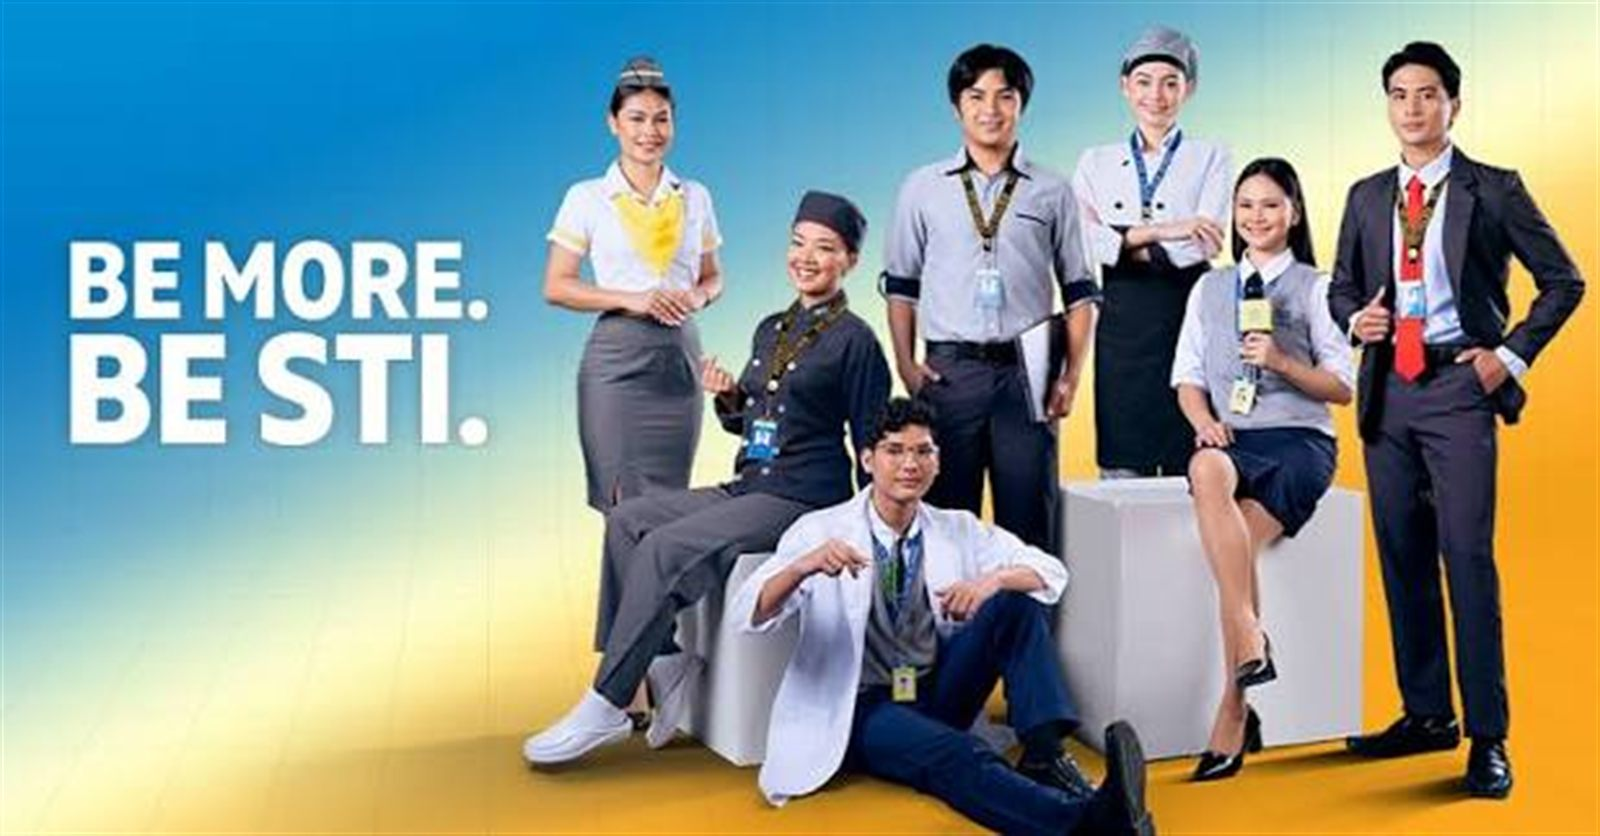
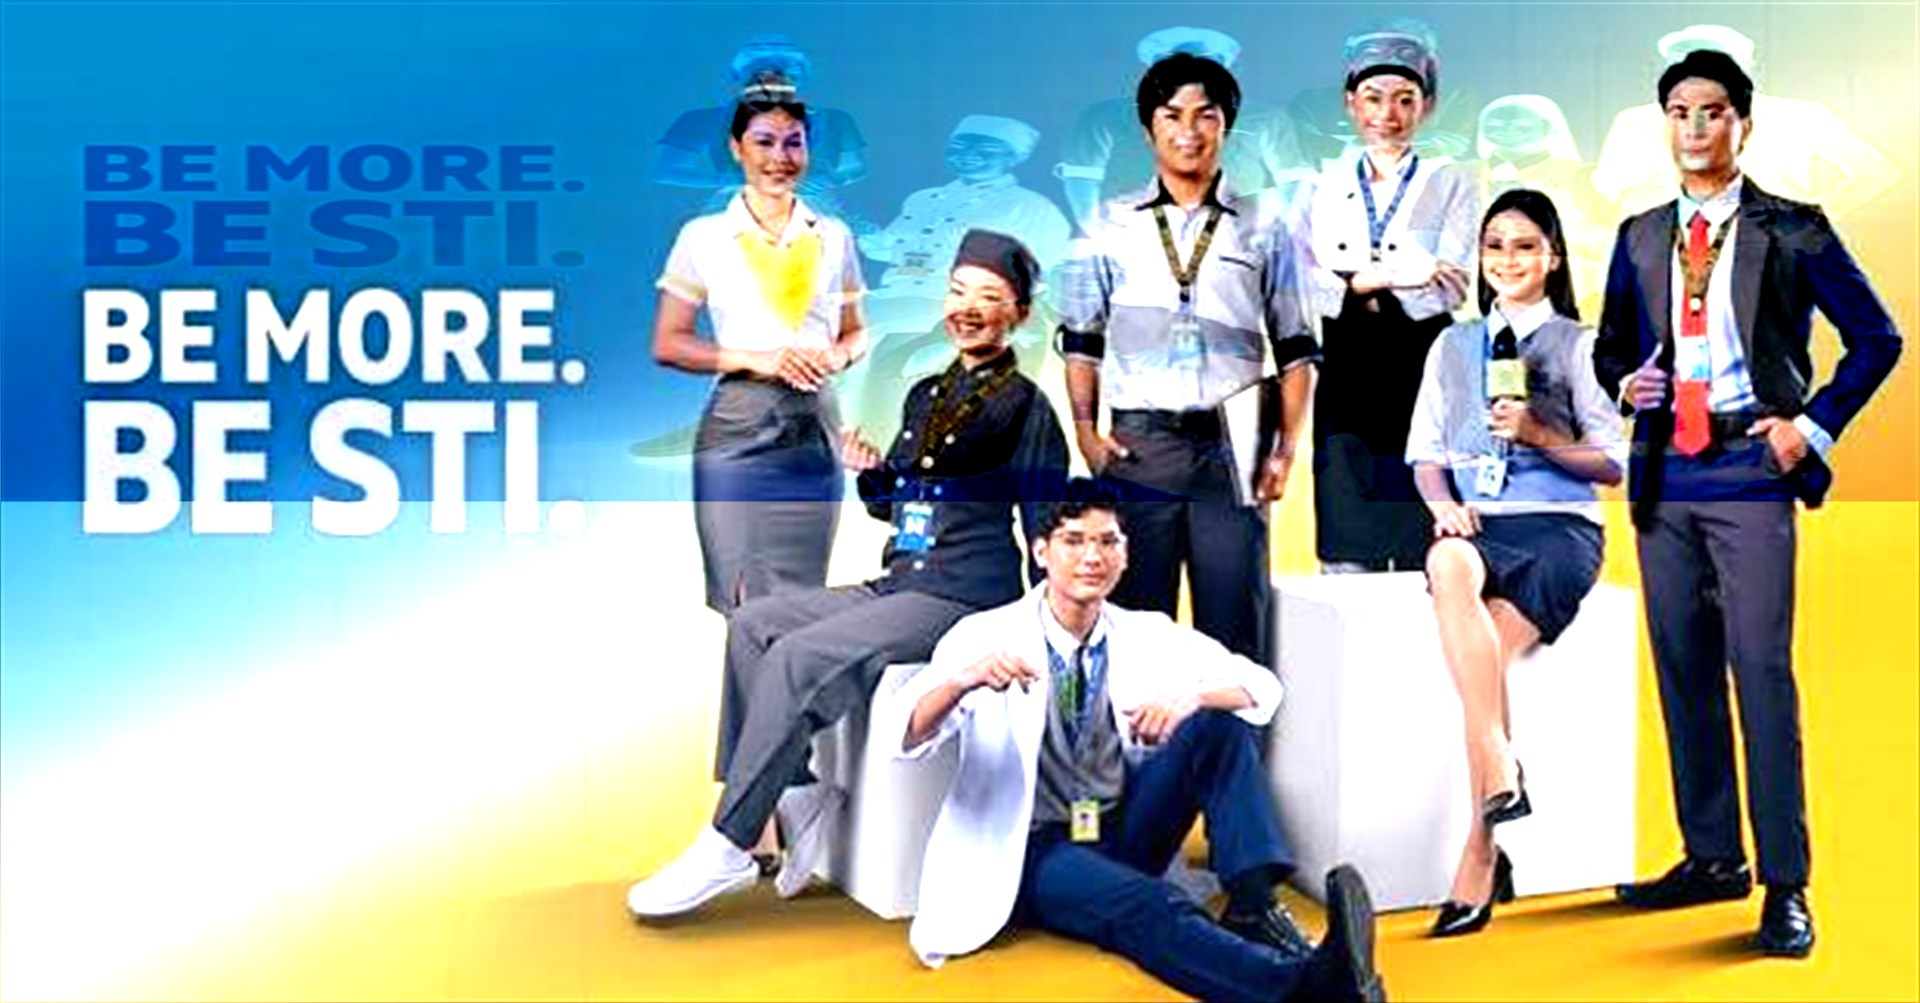
Full-screen hero, header branding, and fixed modal close button

diff --git a/frontend/src/pages/Login.jsx b/frontend/src/pages/Login.jsx
@@ -295,10 +295,17 @@ const ForgotPasswordModal = ({ onClose }) => {
 
   return (
     <div className="fixed inset-0 bg-black/50 backdrop-blur-sm flex items-center justify-center p-4 z-[60]">
-      <div className="bg-white dark:bg-slate-800 rounded-2xl shadow-cardHover w-full max-w-sm p-6 relative">
-        <button onClick={onClose} className="absolute top-4 right-4 text-sti-gray" aria-label="Close">
-          <X className="w-5 h-5" />
-        </button>
+      <div className="bg-white dark:bg-slate-800 rounded-2xl shadow-cardHover w-full max-w-sm max-h-[90vh] flex flex-col overflow-hidden">
+        <div className="flex items-center justify-end px-4 pt-4 shrink-0">
+          <button
+            onClick={onClose}
+            className="p-2 -mr-1 rounded-lg text-sti-gray hover:bg-black/5 dark:hover:bg-white/10 transition-colors"
+            aria-label="Close"
+          >
+            <X className="w-5 h-5" />
+          </button>
+        </div>
+        <div className="px-6 pb-6 overflow-y-auto">
         {stage === 'request' && (
           <>
             <h2 className="text-lg font-bold mb-1 dark:text-white">Reset your password</h2>
@@ -361,6 +368,7 @@ const ForgotPasswordModal = ({ onClose }) => {
             </Button>
           </div>
         )}
+        </div>
       </div>
     </div>
   );
@@ -409,10 +417,13 @@ const Login = () => {
       <header className="sticky top-0 z-40 bg-white/95 dark:bg-slate-950/95 backdrop-blur border-b border-black/5 dark:border-white/10 px-4 sm:px-6 lg:px-8">
         <div className="max-w-7xl mx-auto flex items-center justify-between py-3 gap-4">
           <div className="flex items-center gap-2.5 sm:gap-3 min-w-0">
-            <img src="/sti-logo.png" alt="STI College Sta. Maria" className="h-9 sm:h-10 w-auto shrink-0" />
-            <span className="font-semibold text-sti-blue dark:text-white text-xs sm:text-sm truncate">
-              STI Education Services Group
-            </span>
+            <img src="/sti-logo.png" alt="STI College Sta. Maria" className="h-9 sm:h-11 w-auto shrink-0" />
+            <div className="min-w-0 leading-tight">
+              <p className="font-bold text-sti-gray-dark dark:text-white text-xs sm:text-sm truncate">
+                STI College Sta. Maria
+              </p>
+              <p className="text-sti-gray text-[11px] sm:text-xs truncate">STI Education Services Group</p>
+            </div>
           </div>
           <button
             onClick={() => setView('choice')}
@@ -424,7 +435,7 @@ const Login = () => {
       </header>
 
       <main className="flex-1 flex flex-col">
-        <section className="relative w-full h-[240px] sm:h-[340px] lg:h-[460px] bg-sti-blue-dark overflow-hidden">
+        <section className="relative w-full min-h-[calc(100vh-4.5rem)] bg-sti-blue-dark overflow-hidden">
           {slides.map((slide, idx) => (
             <img
               key={slide.src}
@@ -435,17 +446,7 @@ const Login = () => {
               }`}
             />
           ))}
-          <div className="absolute inset-0 bg-gradient-to-t from-slate-900/70 via-slate-900/25 to-slate-900/10" />
-          <div className="absolute inset-x-0 bottom-0 p-4 sm:p-8 lg:p-12">
-            <div className="max-w-2xl">
-              <h1 className="text-white text-2xl sm:text-4xl lg:text-5xl font-extrabold leading-tight drop-shadow">
-                Student Internship Monitoring and Evaluation System
-              </h1>
-              <p className="text-white/85 text-sm sm:text-base mt-2 sm:mt-3 max-w-xl drop-shadow">
-                Track hours, requirements, and submissions for every intern, all in one place.
-              </p>
-            </div>
-          </div>
+          <div className="absolute inset-0 bg-gradient-to-t from-slate-900/40 via-slate-900/10 to-slate-900/10" />
           {slides.length > 1 && (
             <>
               <button
@@ -522,12 +523,19 @@ const Login = () => {
 
       {view && !showForgot && (
         <div className="fixed inset-0 bg-black/50 backdrop-blur-sm flex items-center justify-center p-4 z-50 animate-fade-in">
-          <div className="bg-white dark:bg-slate-800 rounded-2xl shadow-cardHover w-full max-w-sm p-6 relative animate-slide-up max-h-[90vh] overflow-y-auto">
-            <button onClick={closeDialog} className="absolute top-4 right-4 text-sti-gray" aria-label="Close">
-              <X className="w-5 h-5" />
-            </button>
+          <div className="bg-white dark:bg-slate-800 rounded-2xl shadow-cardHover w-full max-w-sm max-h-[90vh] flex flex-col animate-slide-up overflow-hidden">
+            <div className="flex items-center justify-end px-4 pt-4 shrink-0">
+              <button
+                onClick={closeDialog}
+                className="p-2 -mr-1 rounded-lg text-sti-gray hover:bg-black/5 dark:hover:bg-white/10 transition-colors"
+                aria-label="Close"
+              >
+                <X className="w-5 h-5" />
+              </button>
+            </div>
+            <div className="px-6 pb-6 overflow-y-auto">
             {view === 'choice' && (
-              <div className="space-y-3">
+              <div className="space-y-3 -mt-3">
                 <button
                   onClick={() => setView('student')}
                   className="w-full py-3 rounded-xl bg-sti-blue text-white text-sm font-semibold hover:bg-sti-blue-dark"
@@ -550,6 +558,7 @@ const Login = () => {
             )}
             {view === 'student' && <StudentView onBack={() => setView('choice')} />}
             {view === 'admin' && <AdminView onBack={() => setView('choice')} onForgot={() => setShowForgot(true)} />}
+            </div>
           </div>
         </div>
       )}
